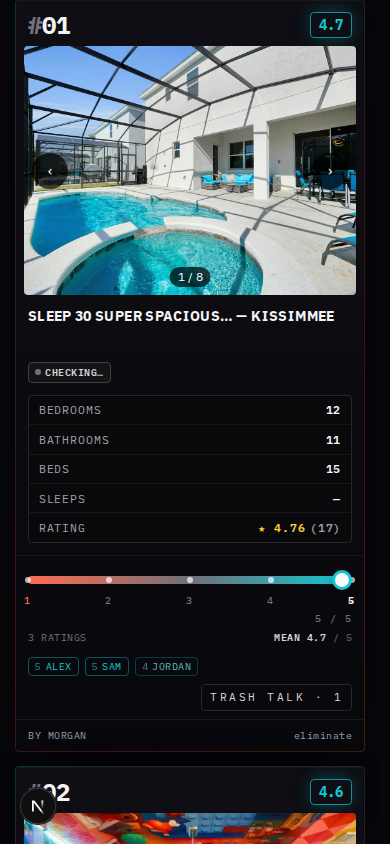
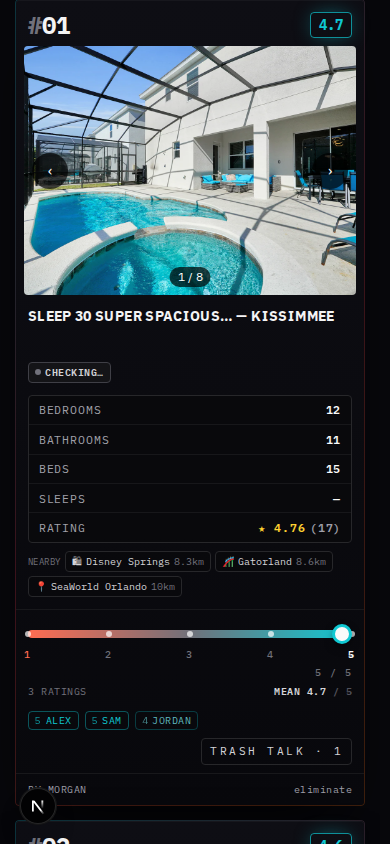
Per-listing "Nearby" pills: 3 closest pinned places, by distance
Each ListingCard now renders a compact "Nearby" pill row between the
stats slab and the vote bar. Each pill shows the category emoji, place
name (truncated), and straight-line distance ("🎢 Magic Kingdom 8.2km").
Cap at 3 pills per card and 100km radius so the row stays one line on
desktop and isn't padded with "300km to LAX" noise.

Distance math + label formatting + nearest-n helper live in
src/lib/distance.ts, covered by 9 unit tests (haversine sanity vs
Orlando→LAX, formatKm boundary cases, nearestPlaces limit + radius).

Wiring: page.tsx → ListingGrid → ListingCard. Cards without coords or
in a battle with no pinned places skip the row entirely (no empty
header).

Regenerated docs/screenshots/voting-grid* + comments-expanded to show
the new pills.

diff --git a/src/components/ListingCard.tsx b/src/components/ListingCard.tsx
@@ -11,8 +11,10 @@ import { AvailabilityBadge } from "./AvailabilityBadge";
 import { withTripDates, type TripDates } from "@/lib/trip";
 import { shortDisplayName } from "@/lib/title";
 import { confirmDialog } from "./Modal";
-import type { ListingWithStats } from "@/lib/types";
+import type { ListingWithStats, Place } from "@/lib/types";
 import type { Battle } from "@/lib/battle";
+import { nearestPlaces, formatKm } from "@/lib/distance";
+import { resolvePlaceCategory } from "@/lib/place-categories";
 
 function StatRow({ label, value }: { label: string; value: React.ReactNode }) {
   return (
@@ -28,11 +30,15 @@ export function ListingCard({
   rank,
   tripDates,
   battle,
+  places = [],
 }: {
   listing: ListingWithStats;
   rank: number;
   tripDates: TripDates;
   battle?: Battle | null;
+  /** Reference places used to render the "Nearby" pill row. Empty/omitted =
+   *  no row rendered. Filtered to those with usable coordinates before use. */
+  places?: Place[];
 }) {
   const router = useRouter();
   const [isRemoving, startRemove] = useTransition();
@@ -152,6 +158,52 @@ export function ListingCard({
           }
         />
       </div>
+
+      {/* Nearby reference places — top 3 closest pinned places (any
+          category) by straight-line distance. Helps the crew weigh
+          "this one's right next to the parks" against "this one's
+          cheap but 25min from the airport." Hidden when the listing
+          has no coords or no candidate places are nearby. */}
+      {(() => {
+        if (listing.latitude == null || listing.longitude == null) return null;
+        const candidates = places
+          .filter((p) => Number.isFinite(p.latitude) && Number.isFinite(p.longitude))
+          .map((p) => ({
+            id: p.id,
+            name: p.name,
+            kind: p.kind,
+            lat: p.latitude,
+            lng: p.longitude,
+          }));
+        if (candidates.length === 0) return null;
+        const nearby = nearestPlaces(
+          { lat: listing.latitude, lng: listing.longitude },
+          candidates,
+          { limit: 3, maxKm: 100 },
+        );
+        if (nearby.length === 0) return null;
+        return (
+          <div className="mx-3 mt-2 flex flex-wrap items-center gap-1">
+            <span className="font-mono text-[9px] uppercase tracking-wider text-zinc-500">
+              Nearby
+            </span>
+            {nearby.map((n) => {
+              const cat = resolvePlaceCategory(n.kind);
+              return (
+                <span
+                  key={n.id}
+                  title={`${cat.label} · ${n.name}`}
+                  className="inline-flex items-center gap-1 rounded-sm border border-zinc-800 bg-zinc-950/70 px-1.5 py-0.5 font-mono text-[10px] text-zinc-300"
+                >
+                  <span aria-hidden="true">{cat.emoji}</span>
+                  <span className="max-w-[8rem] truncate">{n.name}</span>
+                  <span className="text-zinc-500">{formatKm(n.km)}</span>
+                </span>
+              );
+            })}
+          </div>
+        );
+      })()}
 
       {/* Vote bar — pills get their own full-width row so all 5 labels stay
           legible. Trash-talk toggle sits on its own row below, sharing space

diff --git a/src/lib/distance.test.ts b/src/lib/distance.test.ts
@@ -1,0 +1,72 @@
+import { describe, expect, it } from "vitest";
+import { haversineKm, formatKm, nearestPlaces } from "./distance";
+
+describe("haversineKm", () => {
+  it("returns 0 for the same point", () => {
+    const p = { lat: 28.5, lng: -81.4 };
+    expect(haversineKm(p, p)).toBe(0);
+  });
+
+  it("matches the known Orlando → LAX great-circle distance (±1%)", () => {
+    // MCO: 28.4312, -81.3081  ·  LAX: 33.9416, -118.4085
+    // Great-circle distance ≈ 3560 km per Wolfram + airport-distance tables.
+    const km = haversineKm(
+      { lat: 28.4312, lng: -81.3081 },
+      { lat: 33.9416, lng: -118.4085 },
+    );
+    expect(km).toBeGreaterThan(3525);
+    expect(km).toBeLessThan(3595);
+  });
+
+  it("is symmetric", () => {
+    const a = { lat: 28.4177, lng: -81.5812 };
+    const b = { lat: 28.3766, lng: -81.3993 };
+    expect(haversineKm(a, b)).toBeCloseTo(haversineKm(b, a), 6);
+  });
+});
+
+describe("formatKm", () => {
+  it("uses meters under 1km", () => {
+    expect(formatKm(0.42)).toBe("420m");
+    expect(formatKm(0.999)).toBe("999m");
+  });
+
+  it("uses one decimal between 1-10km", () => {
+    expect(formatKm(4.23)).toBe("4.2km");
+    expect(formatKm(9.5)).toBe("9.5km");
+  });
+
+  it("rounds to integer over 10km", () => {
+    expect(formatKm(18.4)).toBe("18km");
+    expect(formatKm(3500)).toBe("3500km");
+  });
+});
+
+describe("nearestPlaces", () => {
+  const origin = { lat: 28.5, lng: -81.4 };
+  const candidates = [
+    { id: "a", name: "near", kind: "grocery", lat: 28.51, lng: -81.41 },     // ~1.4km
+    { id: "b", name: "mid",  kind: "airport", lat: 28.4, lng: -81.3 },       // ~14km
+    { id: "c", name: "far",  kind: "beach",   lat: 28.5, lng: -80.6 },       // ~78km
+    { id: "d", name: "very-far", kind: "other", lat: 0, lng: 0 },            // ~thousands
+  ];
+
+  it("returns the N closest within maxKm, sorted ascending", () => {
+    const r = nearestPlaces(origin, candidates, { limit: 3, maxKm: 100 });
+    expect(r.map((c) => c.id)).toEqual(["a", "b", "c"]);
+    expect(r[0].km).toBeLessThan(r[1].km);
+    expect(r[1].km).toBeLessThan(r[2].km);
+  });
+
+  it("drops anything beyond maxKm even if it would fit limit", () => {
+    const r = nearestPlaces(origin, candidates, { limit: 5, maxKm: 50 });
+    // "very-far" and "far" both exceed 50km
+    expect(r.map((c) => c.id)).toEqual(["a", "b"]);
+  });
+
+  it("respects limit when more candidates are in range", () => {
+    const r = nearestPlaces(origin, candidates, { limit: 1, maxKm: 100 });
+    expect(r).toHaveLength(1);
+    expect(r[0].id).toBe("a");
+  });
+});

diff --git a/src/lib/distance.ts b/src/lib/distance.ts
@@ -1,0 +1,61 @@
+/**
+ * Straight-line "as the crow flies" distance between two lat/lng points
+ * via the haversine formula. Returns kilometers.
+ *
+ * Good enough for "this listing is 8km from the airport" copy on the
+ * roster — for actual drive times we'd need a routing engine (OSRM/
+ * Valhalla), but a straight-line read settles 90% of vacation arguments.
+ */
+const EARTH_KM = 6371;
+
+export function haversineKm(
+  a: { lat: number; lng: number },
+  b: { lat: number; lng: number },
+): number {
+  const toRad = (d: number) => (d * Math.PI) / 180;
+  const dLat = toRad(b.lat - a.lat);
+  const dLng = toRad(b.lng - a.lng);
+  const lat1 = toRad(a.lat);
+  const lat2 = toRad(b.lat);
+  const h =
+    Math.sin(dLat / 2) ** 2 +
+    Math.cos(lat1) * Math.cos(lat2) * Math.sin(dLng / 2) ** 2;
+  return 2 * EARTH_KM * Math.asin(Math.sqrt(h));
+}
+
+/**
+ * Compact distance label. <1km shows meters ("420m"), <10km shows one
+ * decimal ("4.2km"), ≥10km rounds to integer ("18km").
+ */
+export function formatKm(km: number): string {
+  if (km < 1) return `${Math.round(km * 1000)}m`;
+  if (km < 10) return `${km.toFixed(1)}km`;
+  return `${Math.round(km)}km`;
+}
+
+export type DistancePoint = {
+  id: string;
+  name: string;
+  kind: string | null;
+  lat: number;
+  lng: number;
+};
+
+export type NearbyPlace = DistancePoint & { km: number };
+
+/**
+ * Top-N nearest places to `origin`, sorted by distance ascending.
+ * Anything beyond `maxKm` is dropped — a "nearby" hit 200km away isn't
+ * useful, just noise on the card.
+ */
+export function nearestPlaces(
+  origin: { lat: number; lng: number },
+  candidates: DistancePoint[],
+  { limit = 3, maxKm = 100 }: { limit?: number; maxKm?: number } = {},
+): NearbyPlace[] {
+  const withDist: NearbyPlace[] = candidates
+    .map((c) => ({ ...c, km: haversineKm(origin, c) }))
+    .filter((c) => c.km <= maxKm)
+    .sort((a, b) => a.km - b.km);
+  return withDist.slice(0, limit);
+}

diff --git a/src/components/ListingGrid.tsx b/src/components/ListingGrid.tsx
@@ -3,7 +3,7 @@
 import { useEffect, useState } from "react";
 import { useRouter } from "next/navigation";
 import { rankListings, isDisqualified, type SortMode } from "@/lib/rank";
-import type { ListingWithStats } from "@/lib/types";
+import type { ListingWithStats, Place } from "@/lib/types";
 import type { TripDates } from "@/lib/trip";
 import type { Battle } from "@/lib/battle";
 import { ListingCard } from "./ListingCard";
@@ -62,10 +62,13 @@ export function ListingGrid({
   listings,
   tripDates,
   battle,
+  places = [],
 }: {
   listings: ListingWithStats[];
   tripDates: TripDates;
   battle?: Battle | null;
+  /** Pinned reference places used for the "Nearby" pill row on each card. */
+  places?: Place[];
 }) {
   const router = useRouter();
   const { voter } = useVoter();
@@ -243,6 +246,7 @@ export function ListingGrid({
             rank={i + 1}
             tripDates={tripDates}
             battle={battle}
+            places={places}
           />
         ))}
         {ranked.length % 2 === 1 && (

diff --git a/src/app/page.tsx b/src/app/page.tsx
@@ -58,6 +58,7 @@ export default async function Home() {
                   listings={listings}
                   tripDates={tripDates}
                   battle={battle}
+                  places={places}
                 />
                 <MapSection
                   listings={listings}

diff --git a/TODO.md b/TODO.md
@@ -111,9 +111,14 @@ a real "argument-settler" layer.
 - **Notes field** — "this is the one with the good sushi", "kids loved
   this last time", etc. Drop-pin form already has a `url` slot; a free-
   text note would be the natural next field.
-- **Per-listing distance summary** — for each booking candidate, show "8min
-  to SeaWorld · 25min to Epcot · 3min to closest grocery." Straight-line
-  distance is fine for v1; OSRM / Valhalla routing for v2 if anyone cares.
+- ~~**Per-listing distance summary**~~ — **DONE (v1).** Each listing card
+  shows a "Nearby" pill row with the 3 closest pinned places (any
+  category) under 100km, by straight-line haversine distance. Category
+  emoji + place name + distance ("🎢 Magic Kingdom 8.2km"). Helper +
+  unit tests live in `src/lib/distance.ts`. **Still open:** swap
+  straight-line for OSRM/Valhalla drive-time if anyone actually cares
+  about traffic — v1 distance is enough to settle "this one's right
+  next to the parks" vs "this one's 25min from the airport."
 - ~~**Map filter chips**~~ — **DONE.** Bottom-left of the map, a chip
   per category that has ≥1 pin (so a 3-category map doesn't show 10
   chips). Tap to hide that category; line-through + dimmed text signals
